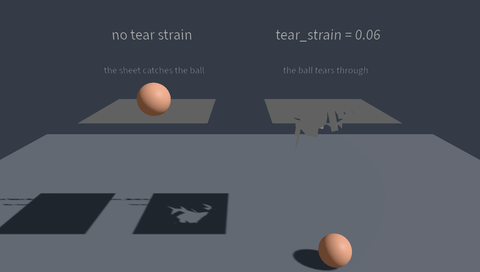
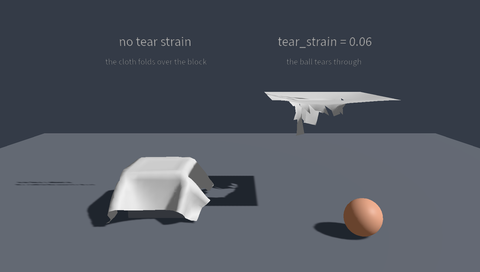
Cloth example: drape a sheet over a block, and face the cloth up

diff --git a/crates/balaur_physics/tests/suite/soft_bodies.rs b/crates/balaur_physics/tests/suite/soft_bodies.rs
@@ -328,6 +328,54 @@ pub fn fixed_update(this, dt) {
     );
 }
 
+/// A cloth is looked at from above, so its triangles have to face up.
+///
+/// Rapier winds a sheet spanned along +x then +z with its front underneath
+/// (`du x dv` is -y), which drew the sheet unlit and back-face culled: it was
+/// there, and all you could see was its shadow.
+#[test]
+fn a_cloth_faces_up() {
+    let _guard = LOG
+        .lock()
+        .unwrap_or_else(std::sync::PoisonError::into_inner);
+    let mut app = balaur_core::App::new(balaur_core::AppConfig::bare(".")).unwrap();
+    balaur_plugin::load(&mut app, &mut balaur_physics::PhysicsPlugin::default()).unwrap();
+    let root = app.engine.root();
+    let node = balaur_core::scene::spawn_node(&mut app.engine.world_mut(), "Sheet", root);
+    balaur_core::components::add(
+        &app.engine,
+        node,
+        "softbody3d",
+        Some(
+            &toml::from_str("kind = \"cloth\"\ncells = [3.0, 3.0, 1.0]\nsize = [2.0, 0.0, 2.0]")
+                .unwrap(),
+        ),
+    )
+    .unwrap();
+
+    let solved = app.engine.world();
+    let solved = solved
+        .get::<&balaur_core::mesh::SolvedMesh>(node)
+        .expect("a soft body hands its geometry to whatever draws it");
+    assert!(!solved.indices.is_empty(), "the sheet has no triangles");
+    let up = solved
+        .indices
+        .iter()
+        .map(|[a, b, c]| {
+            let at = |i: &u32| glamx::Vec3::from_array(solved.positions[*i as usize]);
+            (at(b) - at(a)).cross(at(c) - at(a)).y
+        })
+        .filter(|y| *y > 0.0)
+        .count();
+    assert_eq!(
+        up,
+        solved.indices.len(),
+        "{} of {} triangles face down",
+        solved.indices.len() - up,
+        solved.indices.len()
+    );
+}
+
 /// What play-in-editor does on stop: the world is replaced by a fresh one,
 /// so every handle naming the old one's arena has to go with it.
 ///

diff --git a/crates/balaur_physics/src/softbody.rs b/crates/balaur_physics/src/softbody.rs
@@ -278,13 +278,19 @@ fn build_layout(
             let du = pose.rotation * scalar::v3(size[0], 0.0, 0.0);
             let dv = pose.rotation * scalar::v3(0.0, 0.0, size[2]);
             let origin = at - (du + dv) * 0.5;
-            SoftBodyBuilder::cloth(
+            let mut built = SoftBodyBuilder::cloth(
                 origin,
                 du / (nu.max(2) - 1) as Real,
                 dv / (nv.max(2) - 1) as Real,
                 nu,
                 nv,
-            )
+            );
+            // Spanned +x then +z, rapier winds the sheet's front underneath
+            // it (`du x dv` is -y); a flat cloth is looked at from above.
+            for triangle in &mut built.surface {
+                triangle.swap(1, 2);
+            }
+            built
         }
         w::CLOTH_TUBE => SoftBodyBuilder::cloth_tube(
             at,
